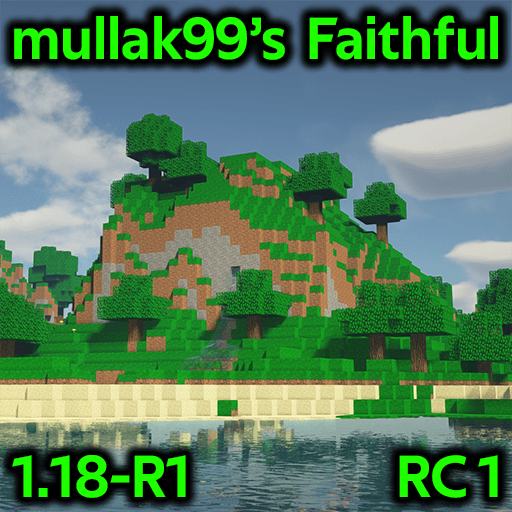
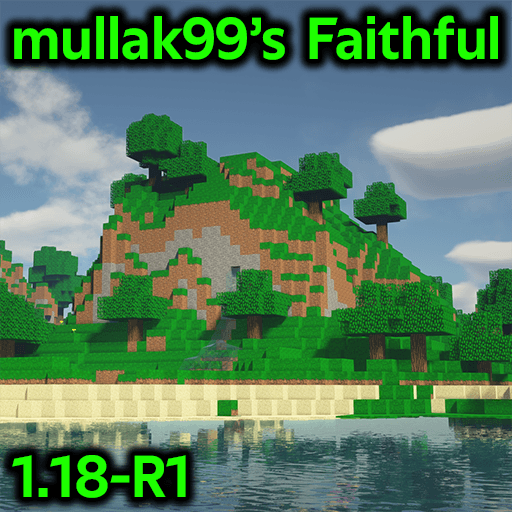
Updated ChangeLog and pack.png

Changed region(s): [[0.75, 0.8438, 1.0, 1.0]]

diff --git a/ChangeLog.md b/ChangeLog.md
@@ -1,7 +1,7 @@
 # Changelog
 All notable changes to mullak99's Faithful will be documented in this file.
 
-## [Unreleased]
+## [MC1.18-R1] - 2021-11-30
 ### Added
 - Added Otherside music disc
 - Added Illager font
